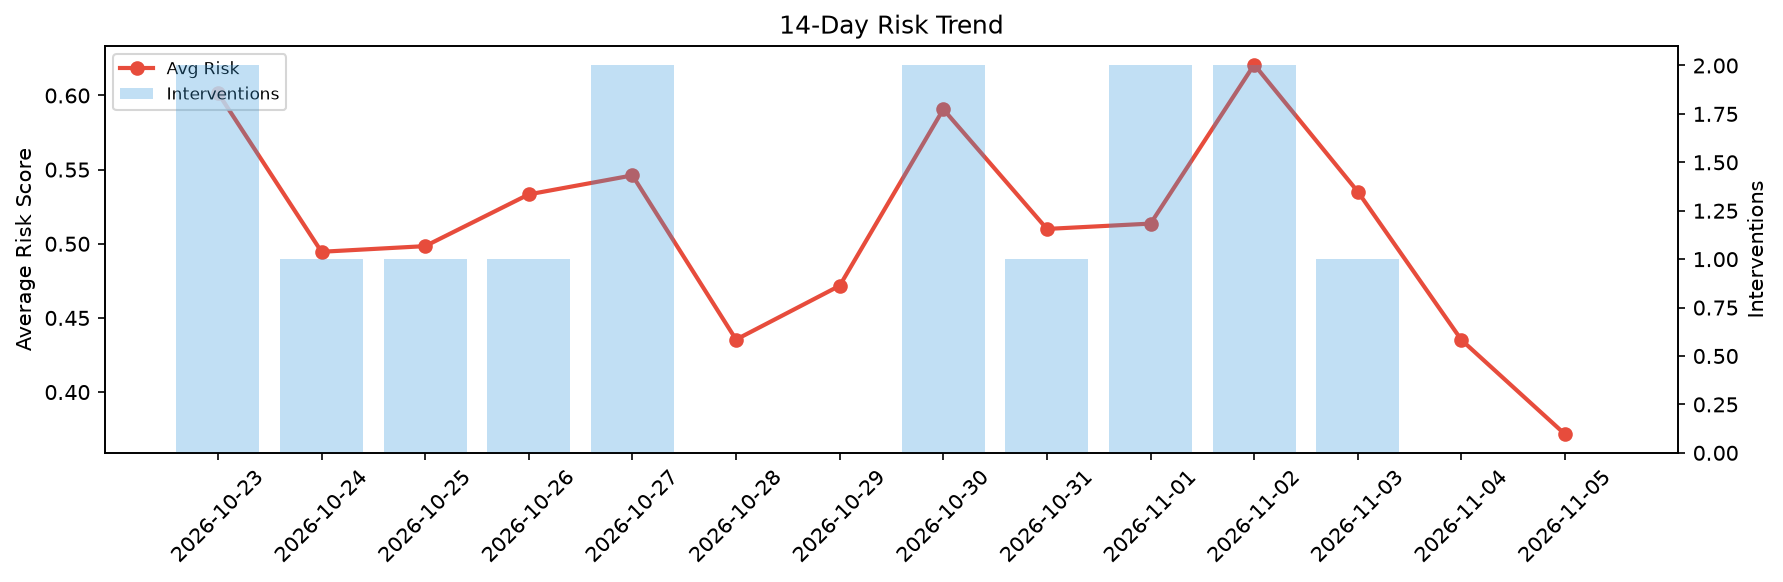
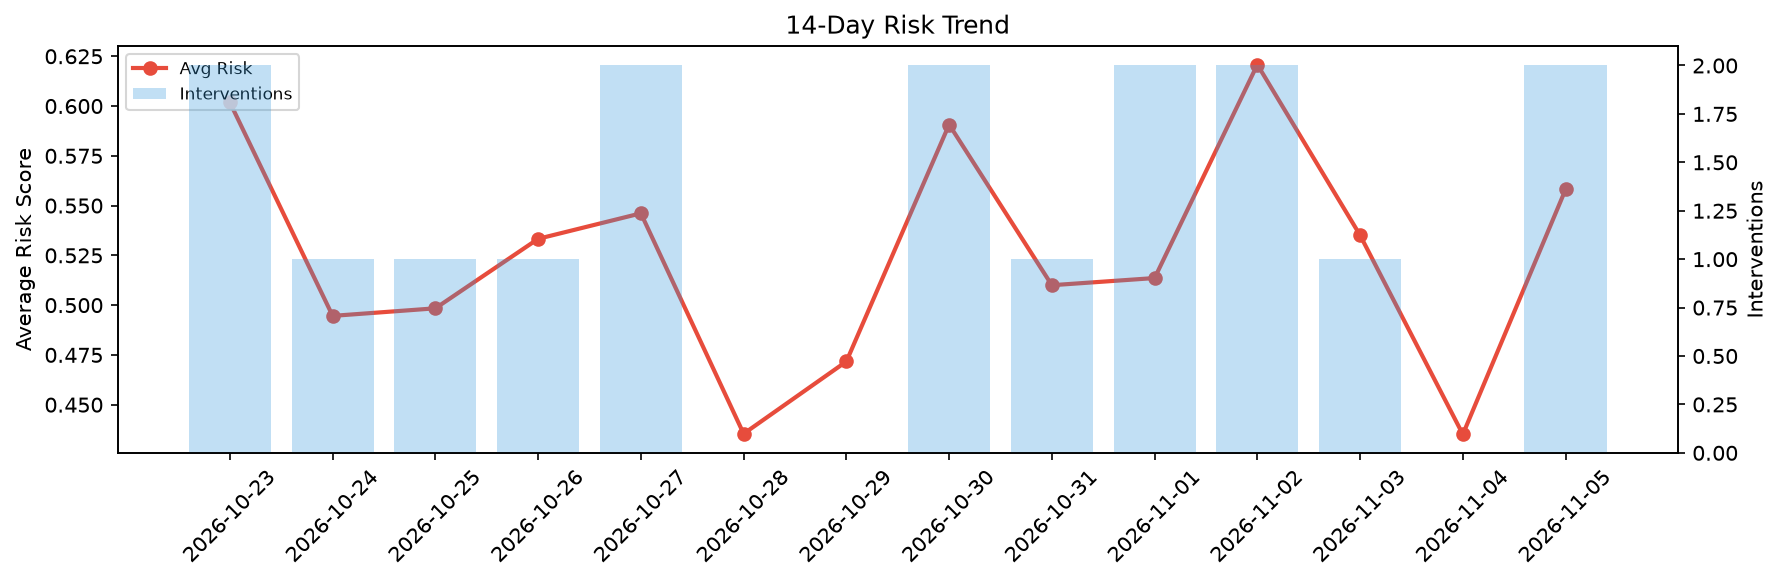
agent-improvement: daily cycle 2026-11-05T16:27

diff --git a/logs/2026-11-05.md b/logs/2026-11-05.md
@@ -1,6 +1,6 @@
 # Agent Improvement Report — 2026-11-05
 
-**Cycle ID:** `8f5415cc` | **Avg Risk:** 0.3715 | **Interventions:** 0/4
+**Cycle ID:** `53a9f609` | **Avg Risk:** 0.5581 | **Interventions:** 2/4
 
 ![Dashboard](2026-11-05_dashboard.png)
 
@@ -10,18 +10,18 @@
 
 | Domain | Risk Score | Decision | Alerts |
 |--------|-----------|----------|--------|
-| code_review | 0.304 | monitor | none |
-| incident_response | 0.2491 | monitor | none |
-| data_pipeline | 0.4236 | monitor | none |
-| deployment | 0.5093 | monitor | rollback_rate |
+| code_review | 0.6008 | intervene | none |
+| incident_response | 0.7407 | intervene | severity, mttr |
+| data_pipeline | 0.4729 | monitor | schema_drift |
+| deployment | 0.4178 | monitor | rollback_rate |
 
 ## Delta vs Yesterday
 
 | Domain | Today | Yesterday | Change |
 |--------|-------|-----------|--------|
-| code_review | 0.304 | 0.3962 | 📉 -23.3% |
-| incident_response | 0.2491 | 0.5492 | 📉 -54.6% |
-| data_pipeline | 0.4236 | 0.4948 | 📉 -14.4% |
-| deployment | 0.5093 | 0.3001 | 📈 69.7% |
+| code_review | 0.6008 | 0.3962 | 📈 51.6% |
+| incident_response | 0.7407 | 0.5492 | 📈 34.9% |
+| data_pipeline | 0.4729 | 0.4948 | 📉 -4.4% |
+| deployment | 0.4178 | 0.3001 | 📈 39.2% |
 
-**Refinement:** `{'adjustment': 'tighten_thresholds', 'trend': 'degrading', 'window': 4}`
+**Refinement:** `{'adjustment': 'maintain', 'trend': 'improving', 'window': 4}`
